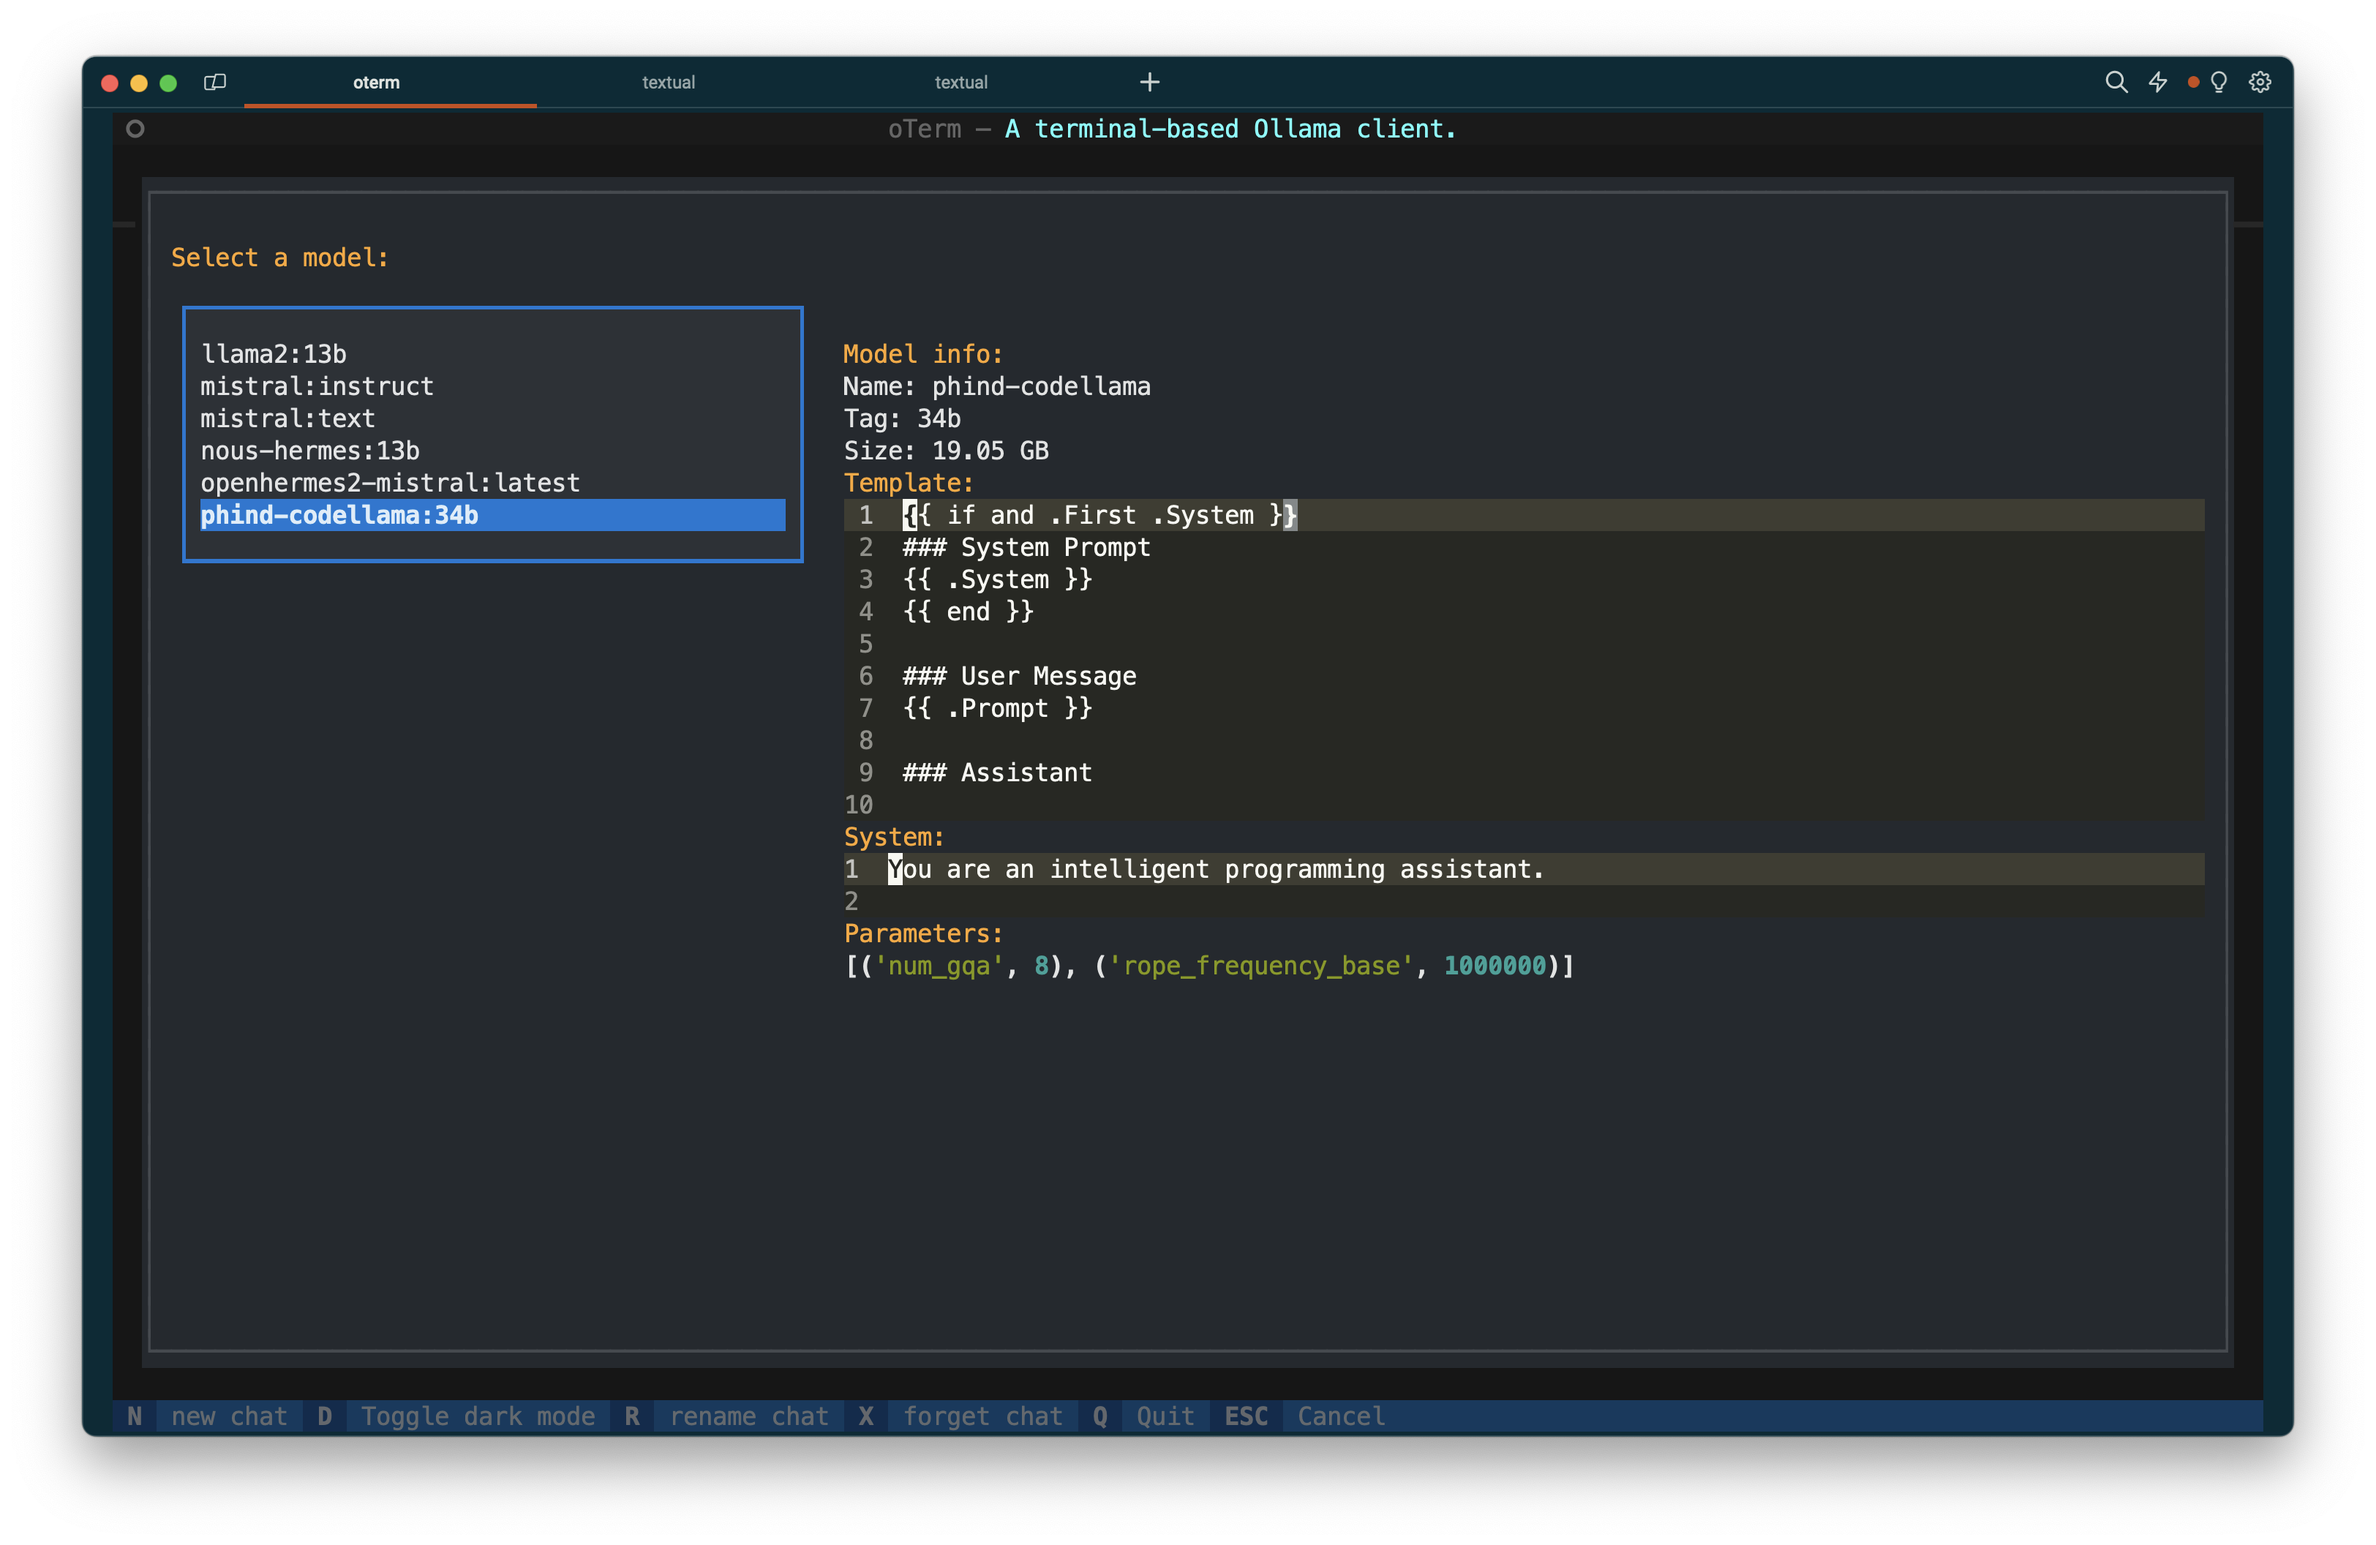
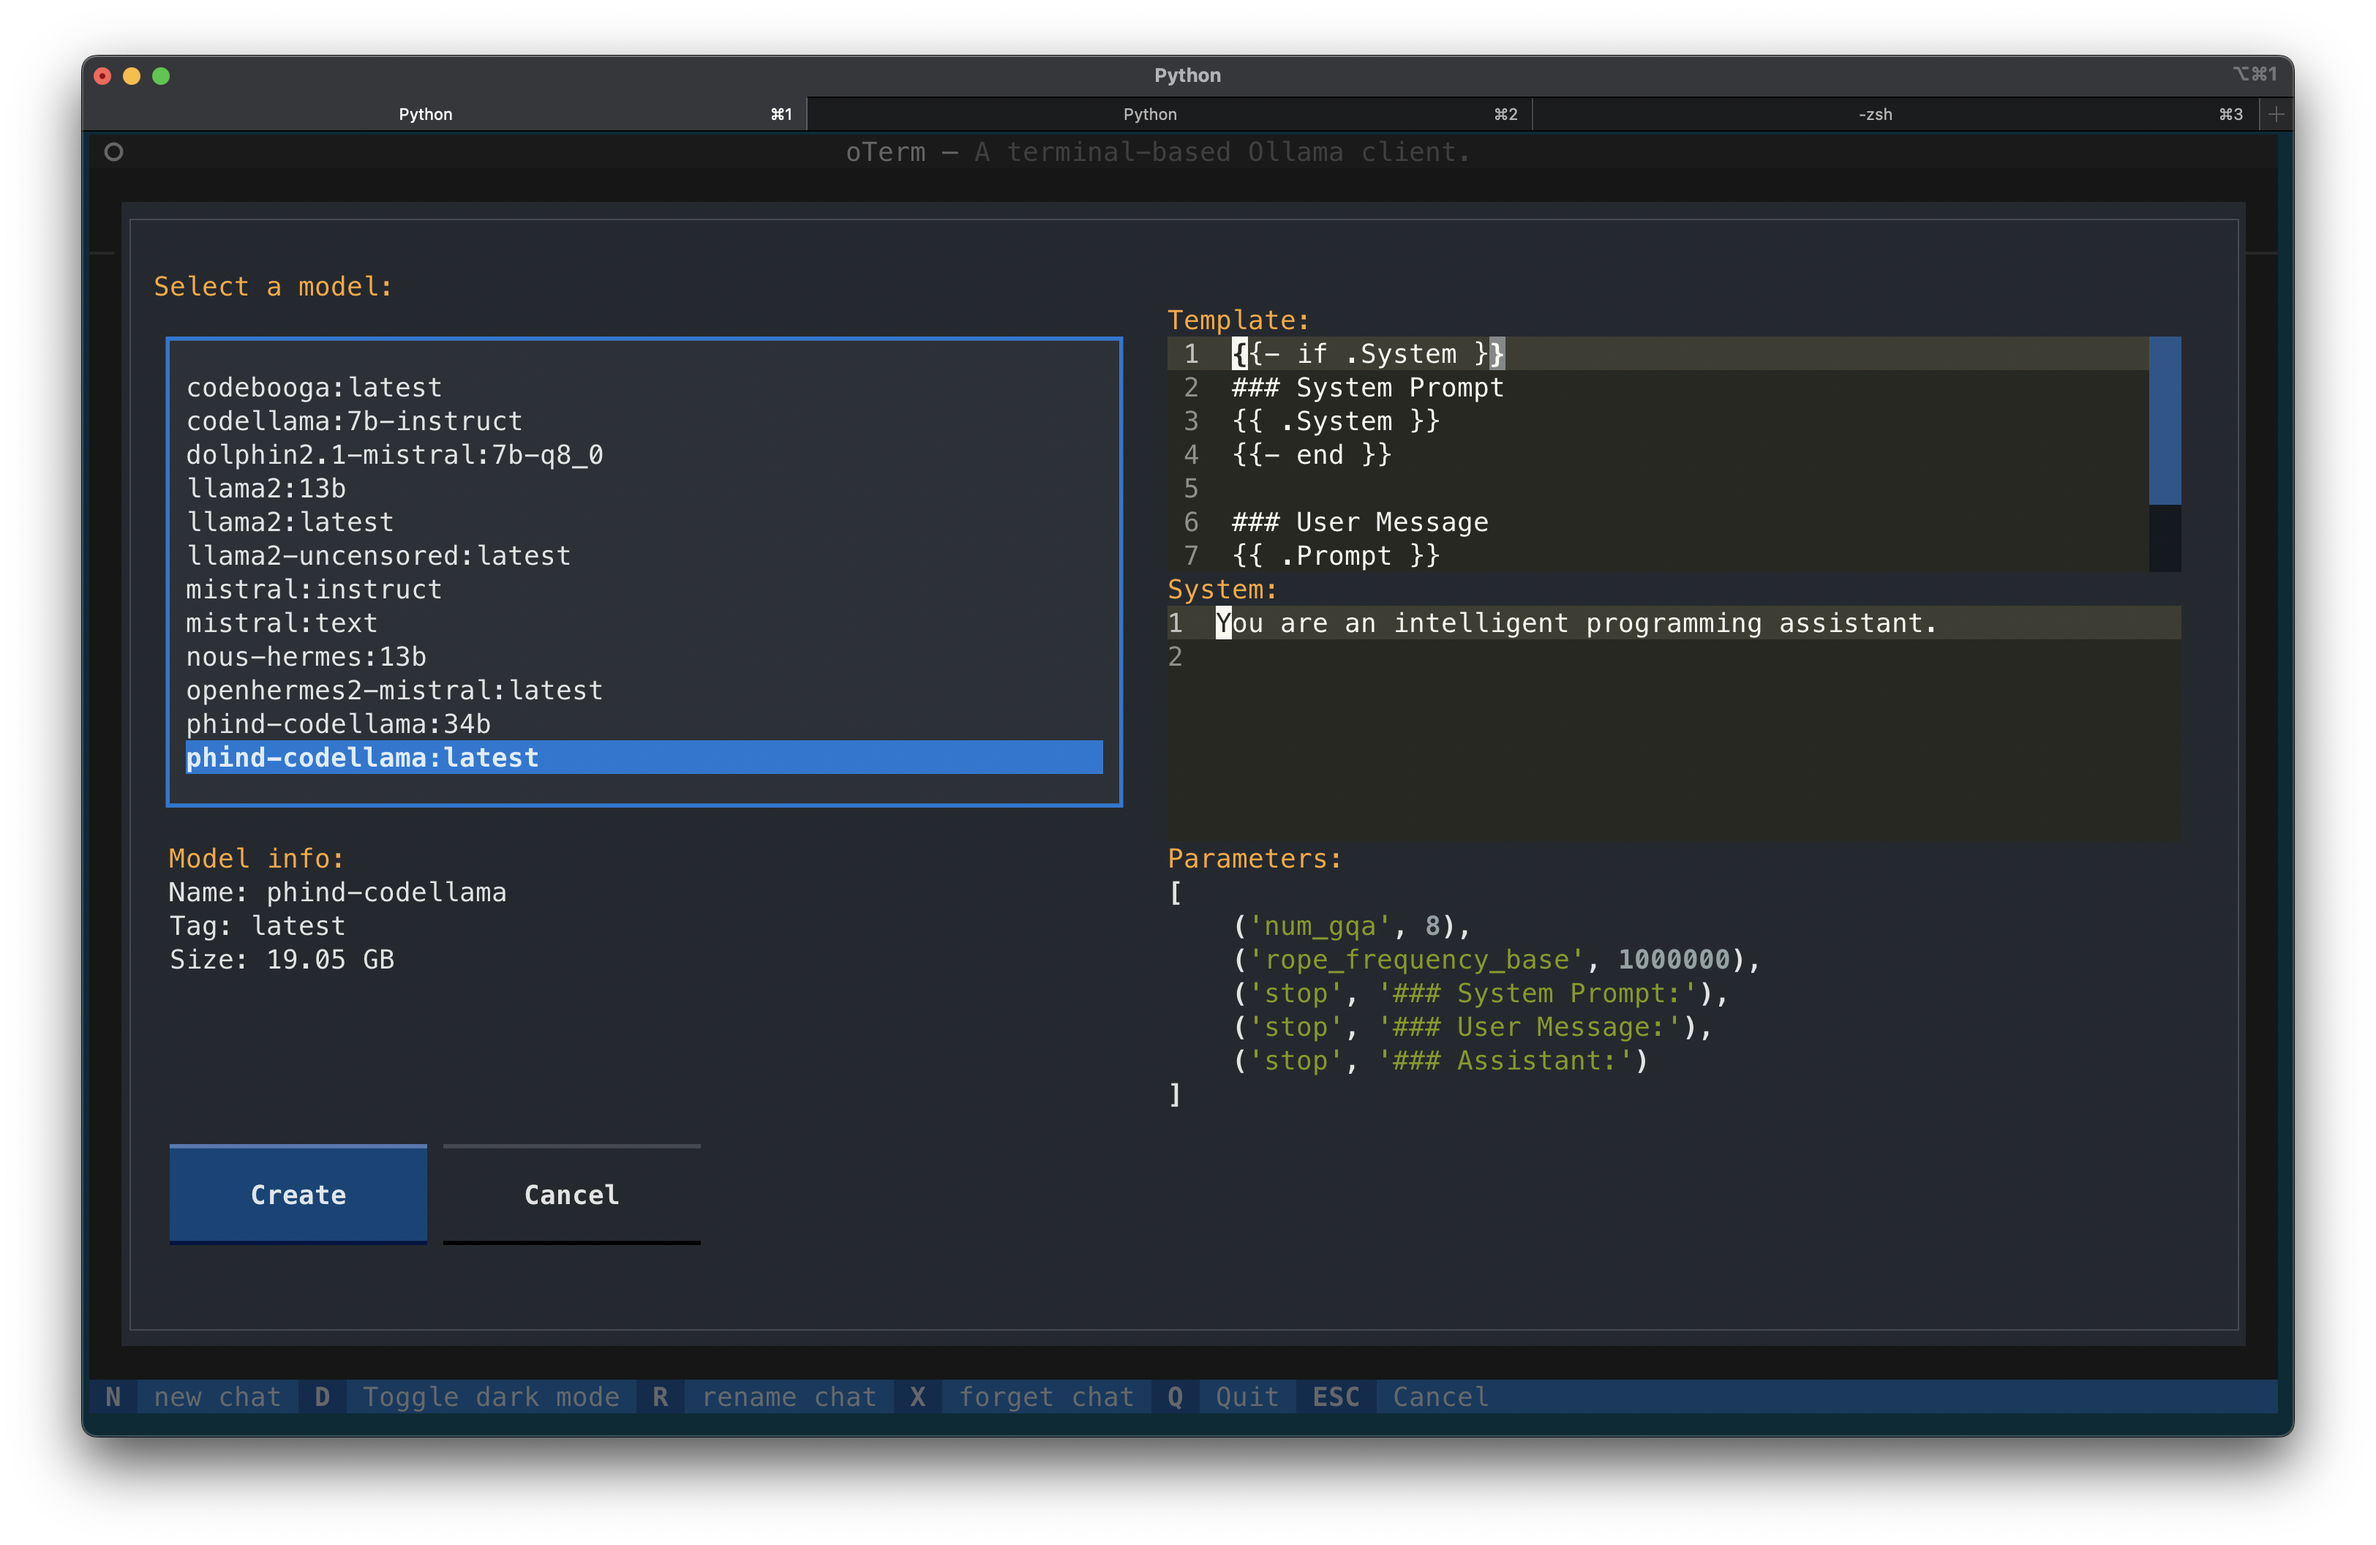
Update docs

Changed region(s): [[0.0311, 0.0312, 0.9951, 0.9688], [0.6841, 0.375, 0.7152, 0.4062], [0.2177, 0.75, 0.2488, 0.7812]]

diff --git a/README.md b/README.md
@@ -4,8 +4,9 @@ the text-based terminal client for [Ollama](https://github.com/jmorganca/ollama)
 ## Features
 
 * intuitive and simple terminal UI, no need to run servers, frontends, just type `oterm` in your terminal.
-* multiple persistent chat sessions, stored together with the context embeddings in sqlite.
+* multiple persistent chat sessions, stored together with the context embeddings and template/system prompt customizations in sqlite.
 * can use any of the models you have pulled in Ollama, or your own custom models.
+* allows for easy customization of the model's template, system prompt and parameters.
 
 ## Installation
 
@@ -31,6 +32,10 @@ OLLAMA_URL=http://host:port/api
 ```
 
 `oterm` will not (yet) pull models for you, please use `ollama` to do that. All the models you have pulled or created will be available to `oterm`.
+
+### Customizing models
+
+When creating a new chat, you may not only select the model, but also customize the `template` as well as the `system` instruction to pass to the model. 
 
 ### Screenshots
 ![Chat](screenshots/chat.png)
